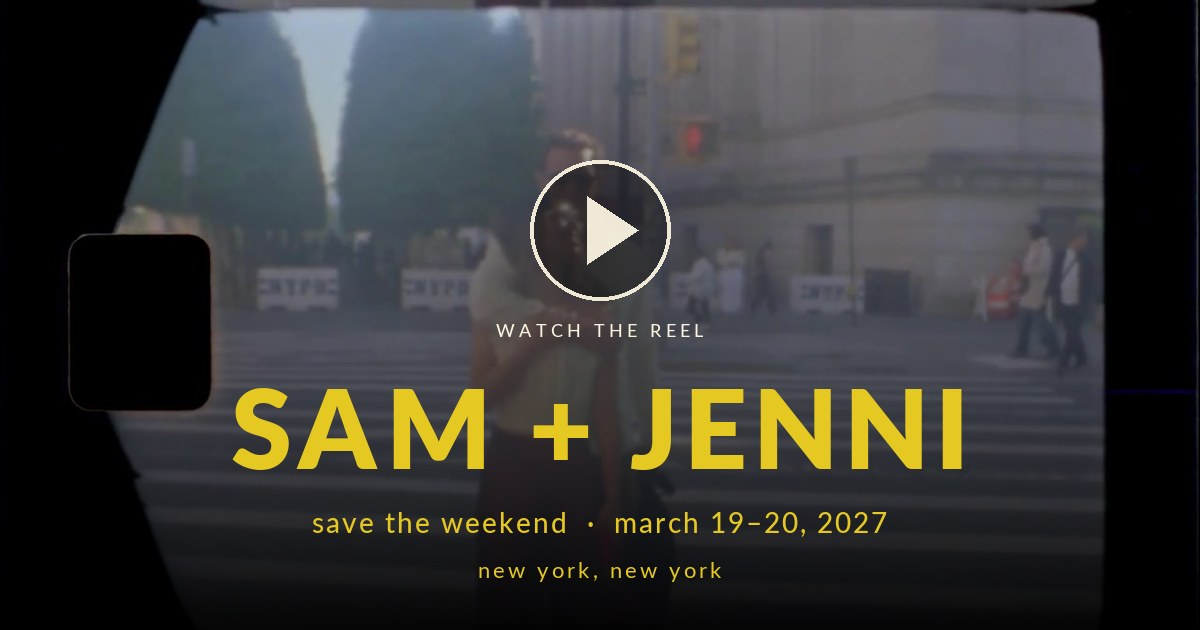
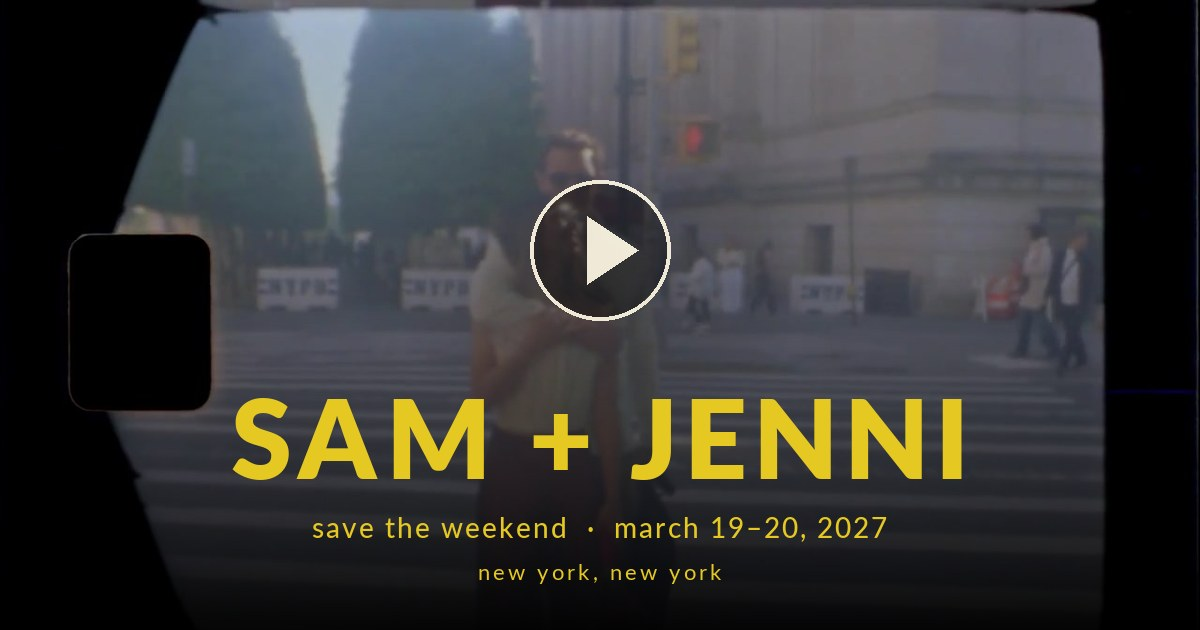
Add files via upload

diff --git a/index.html b/index.html
@@ -3,23 +3,23 @@
 <head>
 <meta charset="utf-8">
 <meta name="viewport" content="width=device-width,initial-scale=1">
-<title>Sam + Jenni · 3.19–3.20.27</title>
-<meta name="description" content="A wedding weekend · New York, New York">
+<title>sam + jenni · 3.19–3.20.27</title>
+<meta name="description" content="a wedding weekend · new york, new york">
 
 <!-- Open Graph / iMessage / WhatsApp / Slack / Facebook -->
 <meta property="og:type" content="website">
 <meta property="og:url" content="https://samandjenni.com/">
-<meta property="og:title" content="Sam + Jenni · 3.19–3.20.27">
-<meta property="og:description" content="A wedding weekend · New York, New York">
+<meta property="og:title" content="sam + jenni · 3.19–3.20.27">
+<meta property="og:description" content="a wedding weekend · new york, new york">
 <meta property="og:image" content="https://samandjenni.com/og-image.jpg">
 <meta property="og:image:width" content="1200">
 <meta property="og:image:height" content="630">
-<meta property="og:image:alt" content="Sam + Jenni · Save the Weekend · March 19–20, 2027">
+<meta property="og:image:alt" content="sam + jenni · save the weekend · march 19–20, 2027">
 
 <!-- Twitter / X -->
 <meta name="twitter:card" content="summary_large_image">
-<meta name="twitter:title" content="Sam + Jenni · 3.19–3.20.27">
-<meta name="twitter:description" content="A wedding weekend · New York, New York">
+<meta name="twitter:title" content="sam + jenni · 3.19–3.20.27">
+<meta name="twitter:description" content="a wedding weekend · new york, new york">
 <meta name="twitter:image" content="https://samandjenni.com/og-image.jpg">
 
 <link rel="preconnect" href="https://fonts.googleapis.com">
@@ -132,10 +132,10 @@
   .film-frame {
     position: relative;
     /* Fit by whichever dimension binds first: viewport width, or height-based 16:10 */
-    width: min(95vw, calc((100vh - 240px) * 1.6 + 100px));
+    width: min(90vw, calc((100vh - 300px) * 1.6 + 100px));
     max-width: 1500px;
     aspect-ratio: calc(1280/800 + 0.08);  /* tiny extra width for side markings */
-    padding: 32px 50px;
+    padding: 56px 70px;
   }
   @media (max-width: 720px) {
     /* Mobile: vertical 1080x1235 aspect, fills phone width.
@@ -151,7 +151,7 @@
 
   .stage {
     position: absolute;
-    inset: 32px 50px;
+    inset: 56px 70px;
     background: #000;
     overflow: hidden;
   }
@@ -198,22 +198,26 @@
   }
 
   /* Top edge markings */
-  .mark-top-left  { top: 14px; left: 60px; }
-  .mark-top-mid   { top: 14px; left: 50%; transform: translateX(-50%); }
-  .mark-top-right { top: 14px; right: 60px; }
+  .mark-top-left  { top: 26px; left: 80px; }
+  .mark-top-mid   { top: 26px; left: 50%; transform: translateX(-50%); }
+  .mark-top-right { top: 26px; right: 80px; }
   /* Bottom edge markings */
-  .mark-bot-left  { bottom: 14px; left: 60px; }
-  .mark-bot-right { bottom: 14px; right: 60px; }
-  /* Vertical side markings */
+  .mark-bot-left  { bottom: 26px; left: 80px; }
+  .mark-bot-right { bottom: 26px; right: 80px; }
+  /* Vertical side markings — use writing-mode so they auto-fit and never clip */
   .mark-left-side {
-    top: 50%; left: 8px;
-    transform: rotate(-90deg) translateX(50%);
-    transform-origin: left center;
+    top: 50%;
+    left: 22px;
+    transform: translateY(-50%);
+    writing-mode: vertical-rl;
+    white-space: nowrap;
   }
   .mark-right-side {
-    top: 50%; right: 8px;
-    transform: rotate(90deg) translateX(-50%);
-    transform-origin: right center;
+    top: 50%;
+    right: 22px;
+    transform: translateY(-50%);
+    writing-mode: vertical-rl;
+    white-space: nowrap;
   }
   @media (max-width: 720px) {
     /* Mobile: SHLANG 400TX positioned higher in the top padding band so it sits clearly above the video vignette */
@@ -434,6 +438,43 @@
     .fitf-caption { font-size: 9px; letter-spacing: 0.32em; margin-top: 14px; }
   }
 
+  /* ===== Add to Calendar — small subtle text links below FITF ===== */
+  .cal-add {
+    margin-top: 10px;
+    text-align: center;
+    font-family: 'Figtree', sans-serif;
+    font-size: 10.5px;
+    letter-spacing: 0.28em;
+    text-transform: lowercase;
+    color: var(--ivory);
+    opacity: 0.6;
+    flex: 0 0 auto;
+  }
+  .cal-add .lead {
+    color: var(--ivory);
+    opacity: 0.75;
+    margin-right: 6px;
+  }
+  .cal-add a {
+    color: var(--ivory);
+    text-decoration: none;
+    border-bottom: 1px solid rgba(250, 243, 224, 0.32);
+    padding-bottom: 1px;
+    transition: color 0.2s, border-color 0.2s, opacity 0.2s;
+  }
+  .cal-add a:hover {
+    color: var(--gold);
+    border-color: var(--gold);
+  }
+  .cal-add .dot {
+    margin: 0 7px;
+    opacity: 0.5;
+  }
+  @media (max-width: 720px) {
+    .cal-add { font-size: 9px; letter-spacing: 0.2em; margin-top: 8px; }
+    .cal-add .dot { margin: 0 5px; }
+  }
+
   /* ===== Modal for full reel ===== */
   .modal { position: fixed; inset: 0; background: rgba(13, 9, 5, 0.95); display: none; align-items: center; justify-content: center; z-index: 100; padding: 32px; }
   .modal.open { display: flex; }
@@ -488,7 +529,7 @@
       <span class="crest-name">Sam + Jenni</span>
       <span class="crest-rule"></span>
     </div>
-    <div class="crest-tag">a wedding weekend · new york city</div>
+    <div class="crest-tag">march 19–20, 2027 · new york city</div>
   </header>
 
   <!-- Hero with film frame markings -->
@@ -503,7 +544,6 @@
       <span class="film-mark mark-right-side">S + J · 400TX</span>
 
       <span class="film-mark mark-bot-left">▸ 2</span>
-      <span class="film-mark mark-bot-right">SHLANG</span>
 
       <!-- Video stage -->
       <div class="stage">
@@ -537,6 +577,14 @@
     </button>
 
     <p class="fitf-caption">formal invitation to follow</p>
+    <p class="cal-add">
+      <span class="lead">add to calendar —</span>
+      <a href="https://www.google.com/calendar/render?action=TEMPLATE&amp;text=Sam%20%2B%20Jenni%20%C2%B7%20Wedding%20Weekend&amp;dates=20270319/20270321&amp;details=Save%20the%20weekend!%20Friday%20welcome%20party%20%2B%20Saturday%20wedding%20at%20The%20Pierre%20Hotel%2C%20New%20York%20City.%20Formal%20invitation%20to%20follow.%0A%0Ahttps%3A%2F%2Fsamandjenni.com&amp;location=New%20York%2C%20NY" target="_blank" rel="noopener noreferrer">google</a>
+      <span class="dot">·</span>
+      <a href="save-the-date.ics" download="Sam-and-Jenni-Wedding-Weekend.ics">apple</a>
+      <span class="dot">·</span>
+      <a href="save-the-date.ics" download="Sam-and-Jenni-Wedding-Weekend.ics">outlook</a>
+    </p>
     <button class="reel-link-mobile" type="button" id="openReelMobile">
       watch full reel<span class="arrow">→</span>
     </button>
